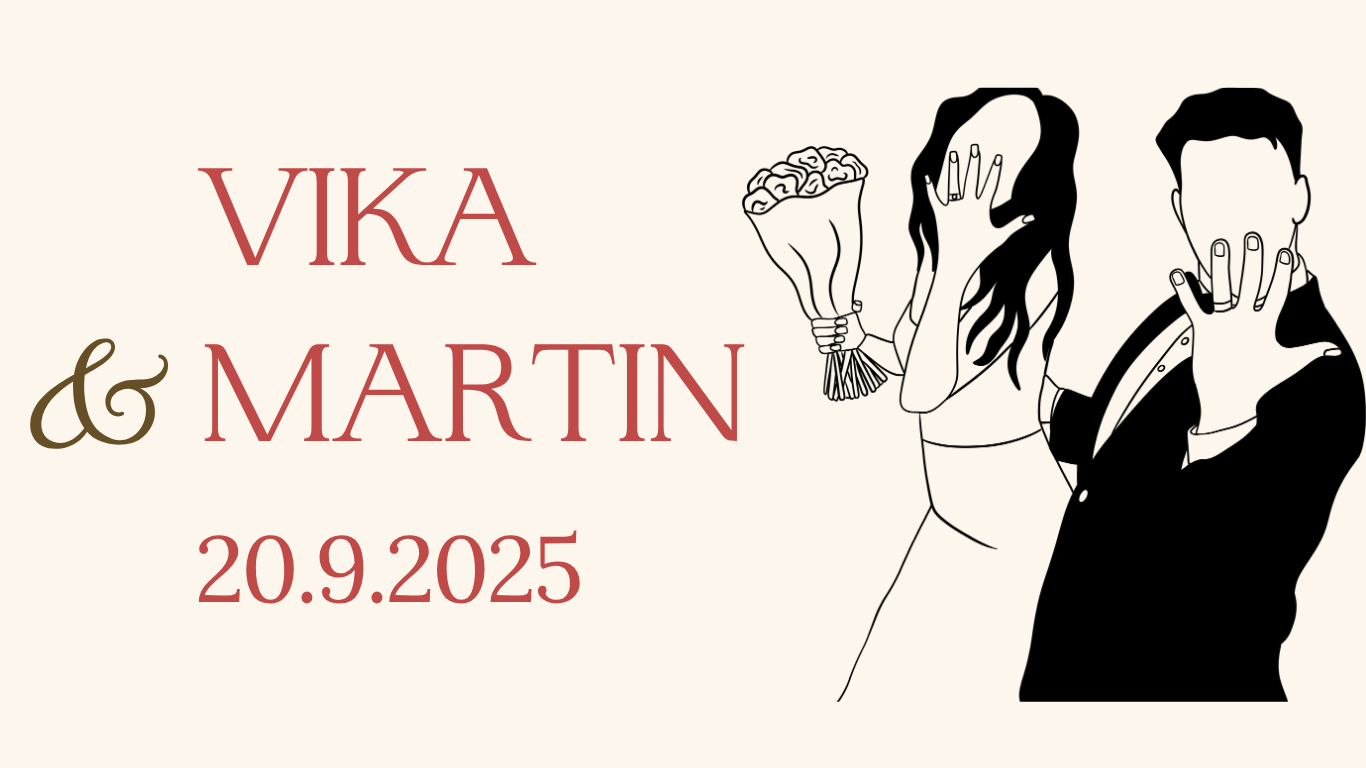
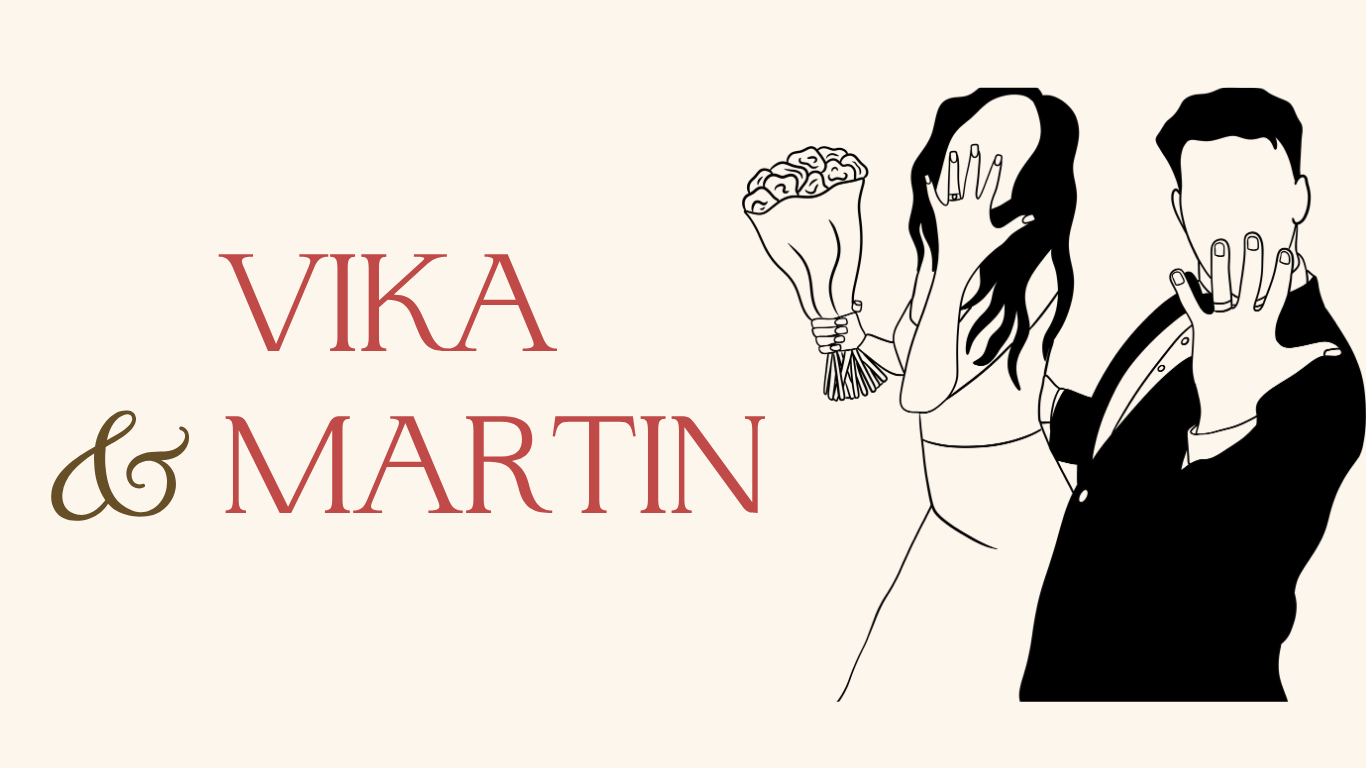
feat: enhance wedding invitation layout and update modal content

Changed region(s): [[0.0, 0.2188, 0.5534, 0.7812]]

diff --git a/app/page.tsx b/app/page.tsx
@@ -10,13 +10,14 @@ export default function Page() {
 
   return (
     <div className="bg-[#FDF6ED] ">
-      <div className="flex justify-start items-center max-w-3xl mx-auto mb-5  ">
+      <div className="flex justify-between items-center max-w-3xl mx-auto mb-5  ">
         <Image
           src="/main-image.png"
           alt="vika&martin"
           width={200}
           height={100}
         />
+        <p className="text-2xl font-medium text-[#BF4A47]">20. září 2025</p>
       </div>
       <div className="flex justify-center items-center gap-5">
         <Image
@@ -32,7 +33,7 @@ export default function Page() {
       </div>
       <div className="flex max-w-3xl mx-auto gap-6 my-10">
         <div className="w-1/2 text-md">
-          <p>
+          <p className="text-justify">
             Ahoj milí,
             <br />
             <br />s radostí bychom Vás chtěli pozvat na naši svatbu, která
@@ -41,7 +42,7 @@ export default function Page() {
             <br />
             <br />
             Abychom to celé mohli naplánovat tak, aby se všem dobře tančilo,
-            jedlo a bavilo, budeme rádi, když nám pomůžete vyplněním krátkého
+            jedlo a pilo, budeme rádi, když nám pomůžete vyplněním krátkého
             dotazníku. Podrobnější informace o celém dni budou následovat!
             <br />
             <br />
@@ -49,7 +50,10 @@ export default function Page() {
             <br />
             S láskou,
             <br />
-            Vika + Martin
+            <br />
+            <span className="text-lg text-[#BF4A47] font-medium italic">
+              Vika + Martin
+            </span>
           </p>
         </div>
         <div className="relative rounded-2xl overflow-hidden aspect-square w-1/2">
@@ -59,10 +63,17 @@ export default function Page() {
       <div className="flex flex-col justify-center items-center gap-10 my-20">
         <h2 className="text-3xl font-medium">Dorazíte na naši svatbu?</h2>
         <div className="flex justify-center items-center gap-10">
-          <Button className="bg-[#BF4A47] text-white rounded-2xl hover:bg-[#BF4A47]/80" size="lg" onClick={() => setIsTourVisible(true)}>
+          <Button
+            className="bg-[#BF4A47] text-white rounded-2xl hover:bg-[#BF4A47]/80"
+            size="lg"
+            onClick={() => setIsTourVisible(true)}
+          >
             Ano, dorazím
           </Button>
-          <Button className="bg-[#664e27] text-white rounded-2xl hover:bg-[#664e27]/80" size="lg">
+          <Button
+            className="bg-[#664e27] text-white rounded-2xl hover:bg-[#664e27]/80"
+            size="lg"
+          >
             Ne, nedorazím
           </Button>
         </div>

diff --git a/app/components/TourModal.tsx b/app/components/TourModal.tsx
@@ -1,7 +1,6 @@
 import {
   Dialog,
   DialogContent,
-  DialogDescription,
   DialogHeader,
   DialogTitle,
   DialogTrigger,
@@ -25,7 +24,7 @@ export const TourModal = () => {
           <DialogTitle className="text-2xl font-medium mb-4">
             Informace o komentované prohlídce
           </DialogTitle>
-          <DialogDescription className="flex flex-row gap-8 w-full">
+          <div className="flex flex-row gap-8 w-full">
             <div className="min-w-5/12 relative">
               <Image
                 src="/cistirny.jpg"
@@ -34,7 +33,7 @@ export const TourModal = () => {
                 className="rounded-2xl"
               />
             </div>
-            <p className="text-base text-[#664e27]">
+            <p className="text-base text-[#664e27] text-justify">
               Stará čistírna odpadních vod v Bubenči je industriální skvost
               postavený v roce 1906, tedy z doby, kdy se ještě všechno točilo na
               páru. Čistila vodu pro celou Prahu až do roku 1967 a dnes je z ní
@@ -48,7 +47,7 @@ export const TourModal = () => {
               <br />
               Celé to zabere cca 35 minut a je to fakt zážitek!
             </p>
-          </DialogDescription>
+          </div>
         </DialogHeader>
       </DialogContent>
     </Dialog>
